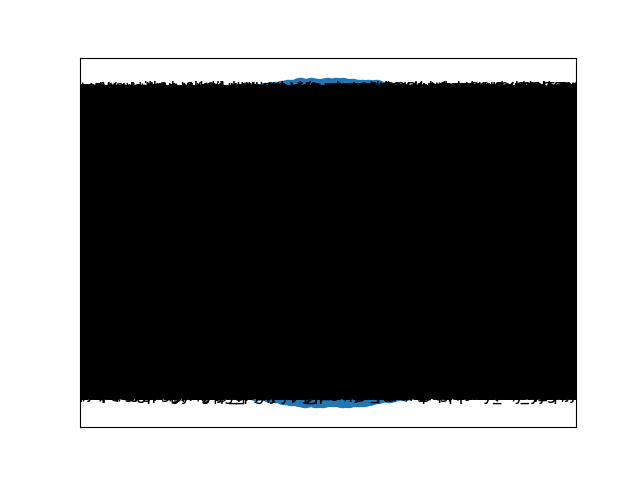
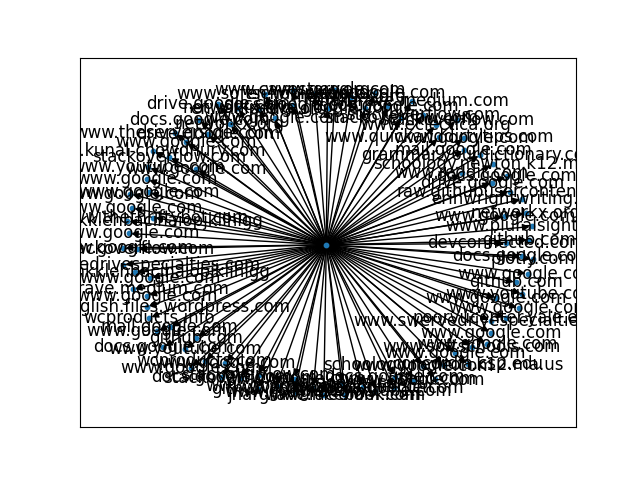
cleanup

diff --git a/src/main.py b/src/main.py
@@ -6,7 +6,7 @@ import matplotlib.pyplot as plt
 
 from . import datatypes
 
-df = pd.read_csv('data/history.csv')
+df = pd.read_csv('data/day.csv')
 
 # print(df)
 
@@ -85,10 +85,7 @@ for clump in clumps:
     graphs.append(graph)
 
 G = graphs[0]
-# print(G.edges)
+print(G.edges)
 print(nx.info(G))
-nx.draw_networkx(G, pos = nx.spring_layout(G))
+nx.draw_networkx(G, pos = nx.spring_layout(G), with_labels=True, node_size=10)
 plt.savefig("test.png")
-# def plot_graphs(graphs: List[nx.DiGraph]):
-#     for graph in graphs:
-#         nx.draw(graph, with_labels=True)

diff --git a/src/datatypes.py b/src/datatypes.py
@@ -9,5 +9,11 @@ class search:
     time: datetime
     duration: datetime = None
 
+    def __str__(self):
+        return f"{self.domain}"
+    
+    def __repr__(self) -> str:
+        return str(self)
+    
     def __hash__(self):
-        return hash(f"{self.time}")
+        return hash(f"{self.domain}")
